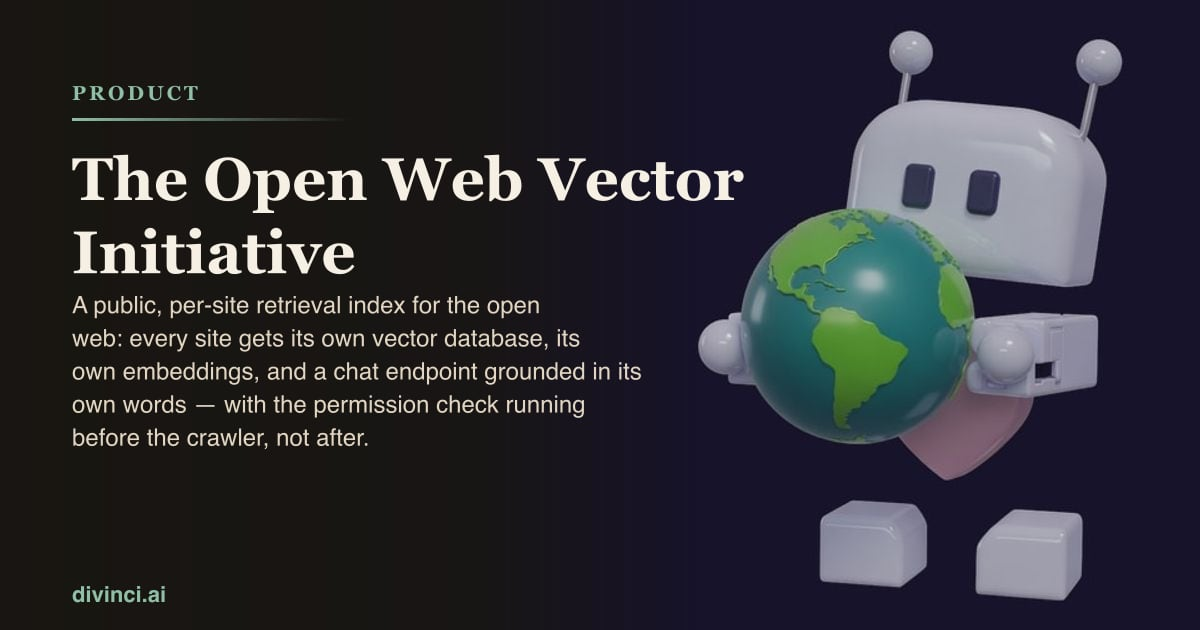
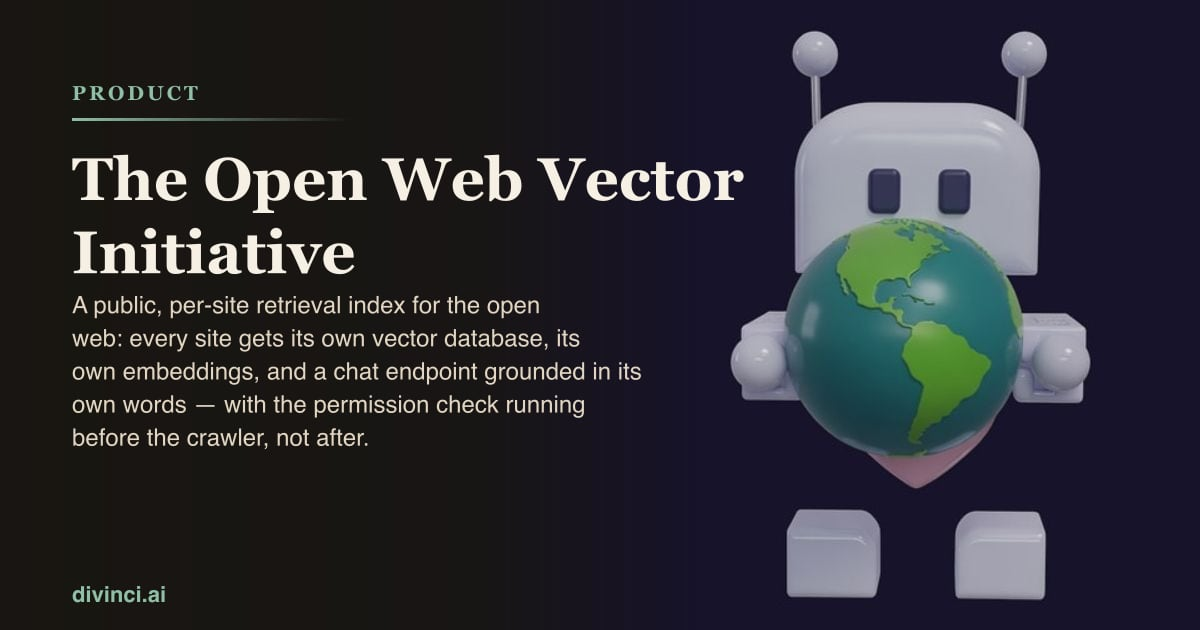
feat(open-web-vectors): globe robot faces the camera
Rebuild from the front-facing plate so the head stays on the viewer
while he holds the orb. Cache-bust the asset URL.

Changed region(s): [[0.555, 0.0302, 0.9558, 0.9651]]

diff --git a/site/templates/open-web-vectors.html b/site/templates/open-web-vectors.html
@@ -64,8 +64,8 @@
         </g>
       </svg>
       <div class="owv-orbit-scrim"></div>
-      <img class="owv-orbit-robot" src="/images/robot-orbit-520.webp"
-           srcset="/images/robot-orbit-320.webp 320w, /images/robot-orbit-520.webp 520w"
+      <img class="owv-orbit-robot" src="/images/robot-orbit-520.webp?v=front"
+           srcset="/images/robot-orbit-320.webp?v=front 320w, /images/robot-orbit-520.webp?v=front 520w"
            sizes="200px" width="520" height="520" alt="" loading="lazy" decoding="async">
     </div>
     <div class="container">
